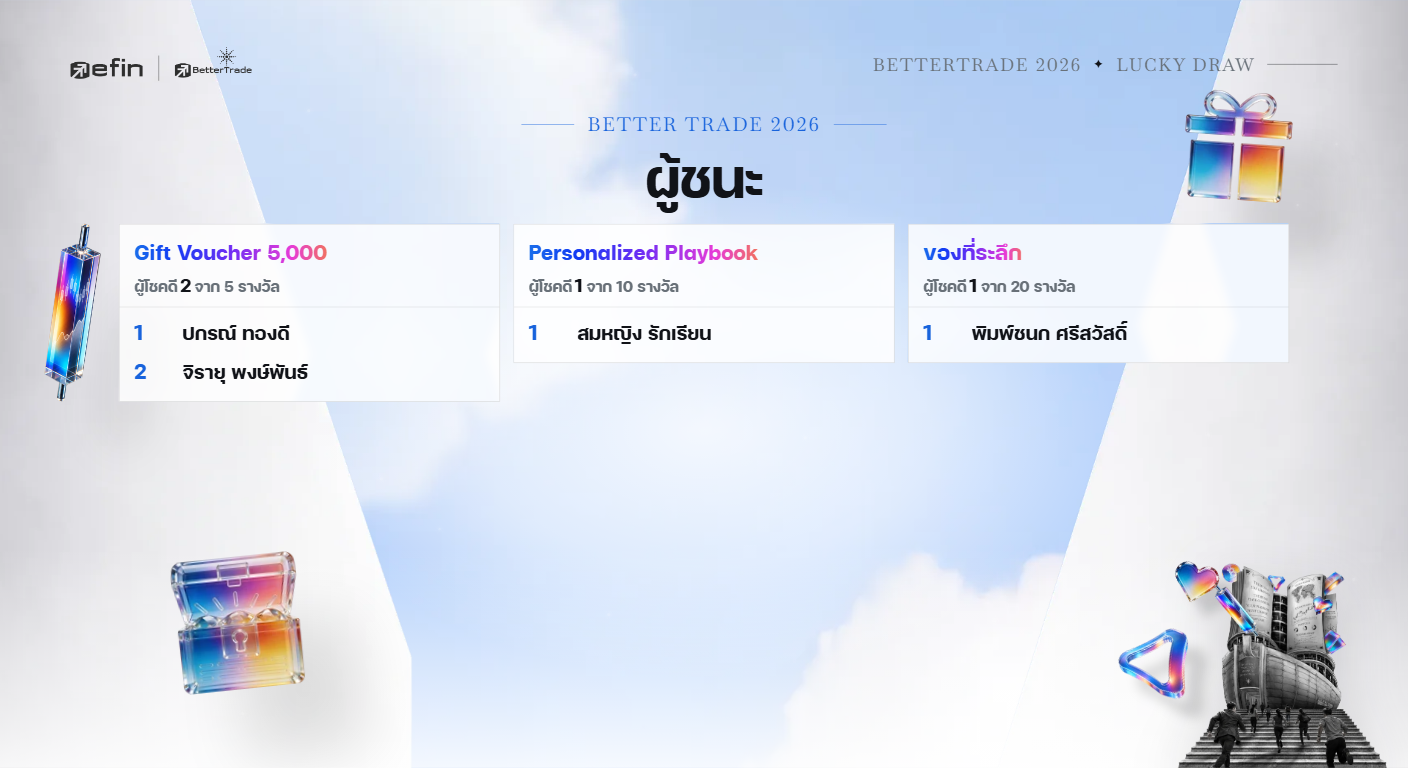
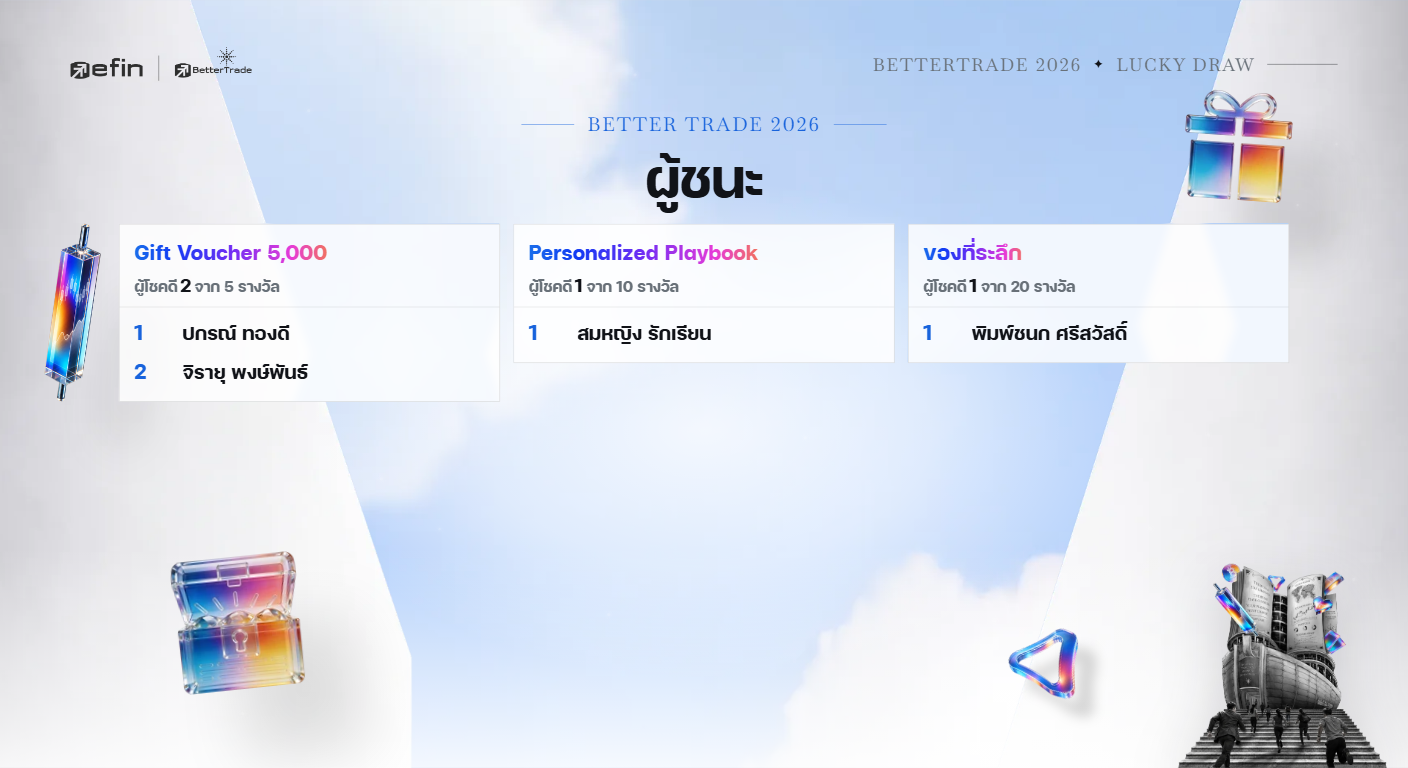
Remove the heart on the ship; give the Mini Stage triangle room beside the ship
- Both screens: drop the small heart on the ship's book (and heart.webp, now unused)
- Mini Stage: the efin triangle moves 150px left, ~118px clear of the hull
- Regenerate previews

Changed region(s): [[0.7188, 0.8125, 0.875, 0.9375], [0.8125, 0.7188, 0.875, 0.8125]]

diff --git a/show-screen.html b/show-screen.html
@@ -303,12 +303,8 @@
   @keyframes castbob{50%{transform:translateY(calc(-.4 * var(--amp,18px)))}}
   #stage.depth :is(#core > .el,#core > .wing-el){filter:none;scale:var(--s,1);rotate:var(--r,0deg);animation-name:bobz;animation-duration:var(--dur,6s)}
   @keyframes bobz{50%{transform:translateY(calc(-1 * var(--amp,18px))) rotate(-2deg)}}
-  /* the small heart only appears with the depth treatment, sitting on the ship's open book */
-  .el.s1{opacity:0;width:76px;right:252px;bottom:214px;animation-delay:-2.5s}
-  body.screen-main .el.s1{right:auto;bottom:auto;left:2250px;top:500px;width:80px}
-  #stage.depth .el.s1{opacity:1}
-  /* Mini Stage: the efin symbol tucks against the ship's hull, like the pieces round the ship in the key visual */
-  body.screen-mini #stage.depth .el.efin{right:280px;bottom:77px}
+  /* Mini Stage: the efin symbol sits low beside the ship, with room to breathe */
+  body.screen-mini #stage.depth .el.efin{right:430px;bottom:77px}   /* ~110px clear of the ship's hull */
   /* Main Stage: the gift sits a little lower and right so it clears the corner label and long winner names once it is larger */
   body.screen-main #stage.depth .el.gift{top:140px;left:1730px}   /* right of where a very long winner name ends (~1720) */
   /* Mini Stage: the larger gift steps down, clear of the corner label */
@@ -349,7 +345,6 @@
   <img class="el candle" src="prize-assets/img/candle.png" alt="">
   <img class="el chest" src="prize-assets/img/chest.webp" alt="">
   <img class="el gift" src="prize-assets/img/gift.webp" alt="">
-  <img class="el s1" src="prize-assets/img/heart.webp" alt="">
   <img class="wing-el n1" src="prize-assets/img/diamond-icon.webp" alt="">
   <img class="wing-el n2" src="prize-assets/img/coin.webp" alt="">
 
@@ -562,9 +557,9 @@ function startReel(st, dur){
 const DEPTH_SCENES = new Set(["idle", "prize", "drawing", "redraw", "reveal", "board"]);   // every scene now
 // per screen, per piece (its second class): [layer, scale, tilt in degrees, visible share of the image box (default 1)]
 const DEPTH = {
-  mini: { candle: ["near", 1.25, 8, .55], chest: ["mid", 1.3, -6], gift: ["mid", 1.08, 7], efin: ["far", .8, -14], s1: ["far", 1, 14] },
+  mini: { candle: ["near", 1.25, 8, .55], chest: ["mid", 1.3, -6], gift: ["mid", 1.08, 7], efin: ["far", .8, -14] },
   main: { candle: ["mid", 1.15, 6, .55], chest: ["mid", 1.3, -6], gift: ["near", 1, 8], efin: ["near", 1.6, -10], n1: ["near", 1.45, -8],
-          n2: ["near", 1.6, 10], b: ["far", .85, -12], c: ["far", .85, 0], s1: ["far", 1, 14] },
+          n2: ["near", 1.6, 10], b: ["far", .85, -12], c: ["far", .85, 0] },
 };
 // per screen and scene: entries that replace the ones above (Mini board: the gift and candle stay smaller, clear of the cards and the corner label)
 const DEPTH_SCENE = { mini: { board: { gift: ["mid", .95, 4], candle: ["near", 1.05, 8, .55] } } };
